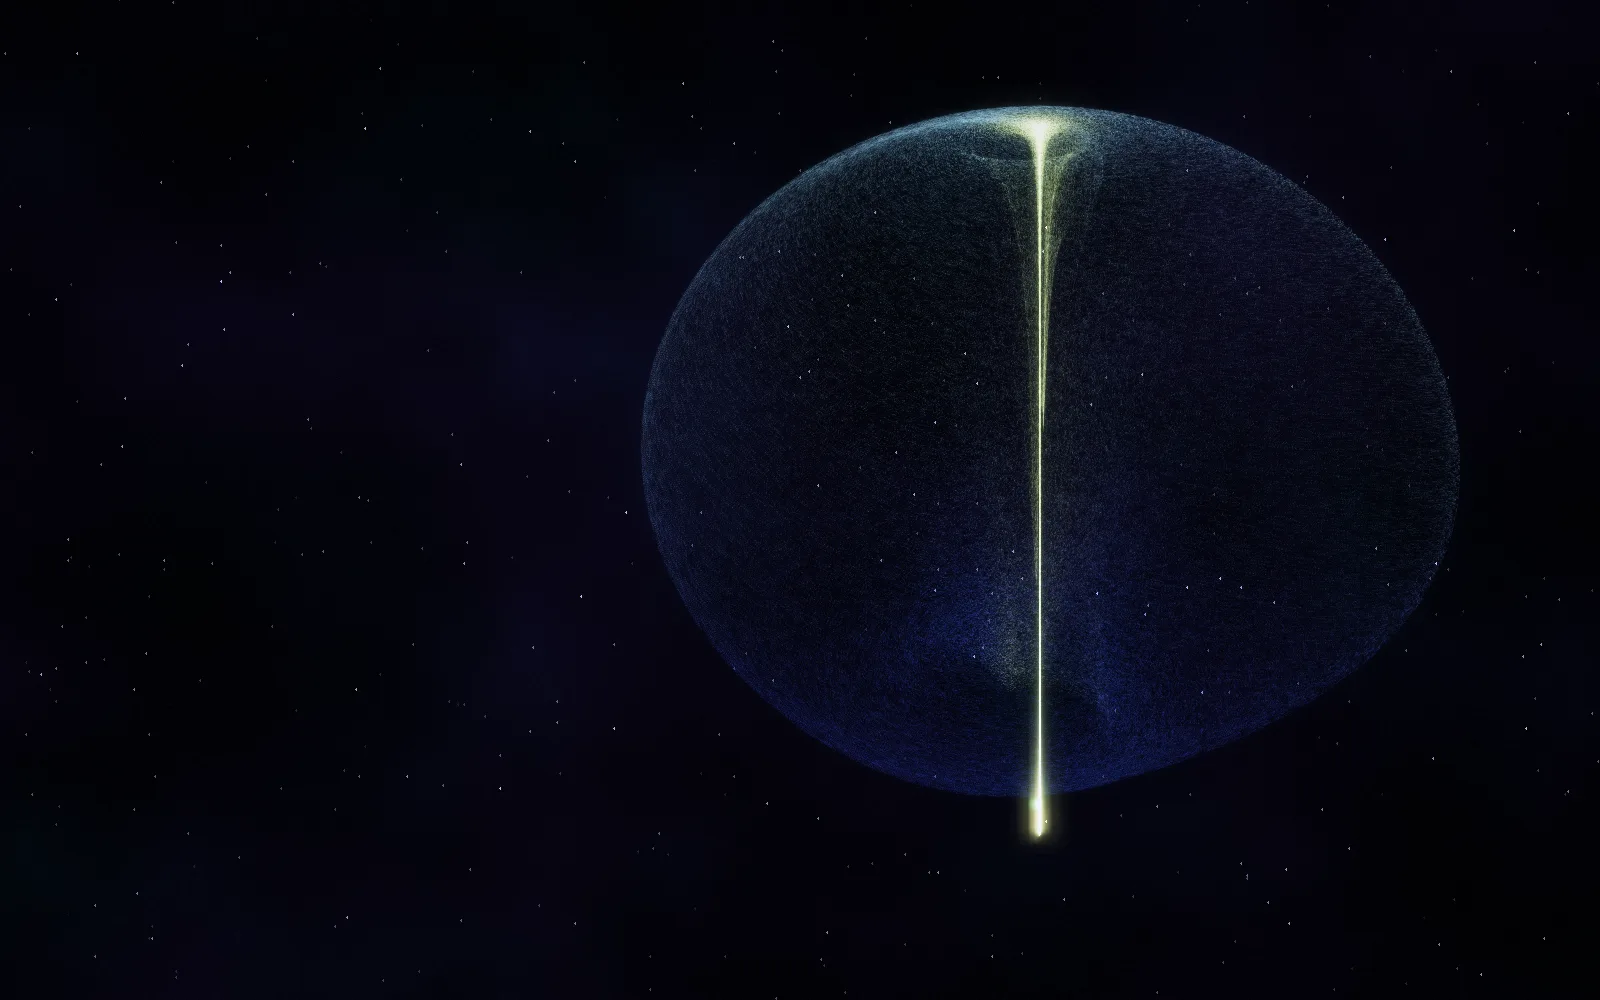
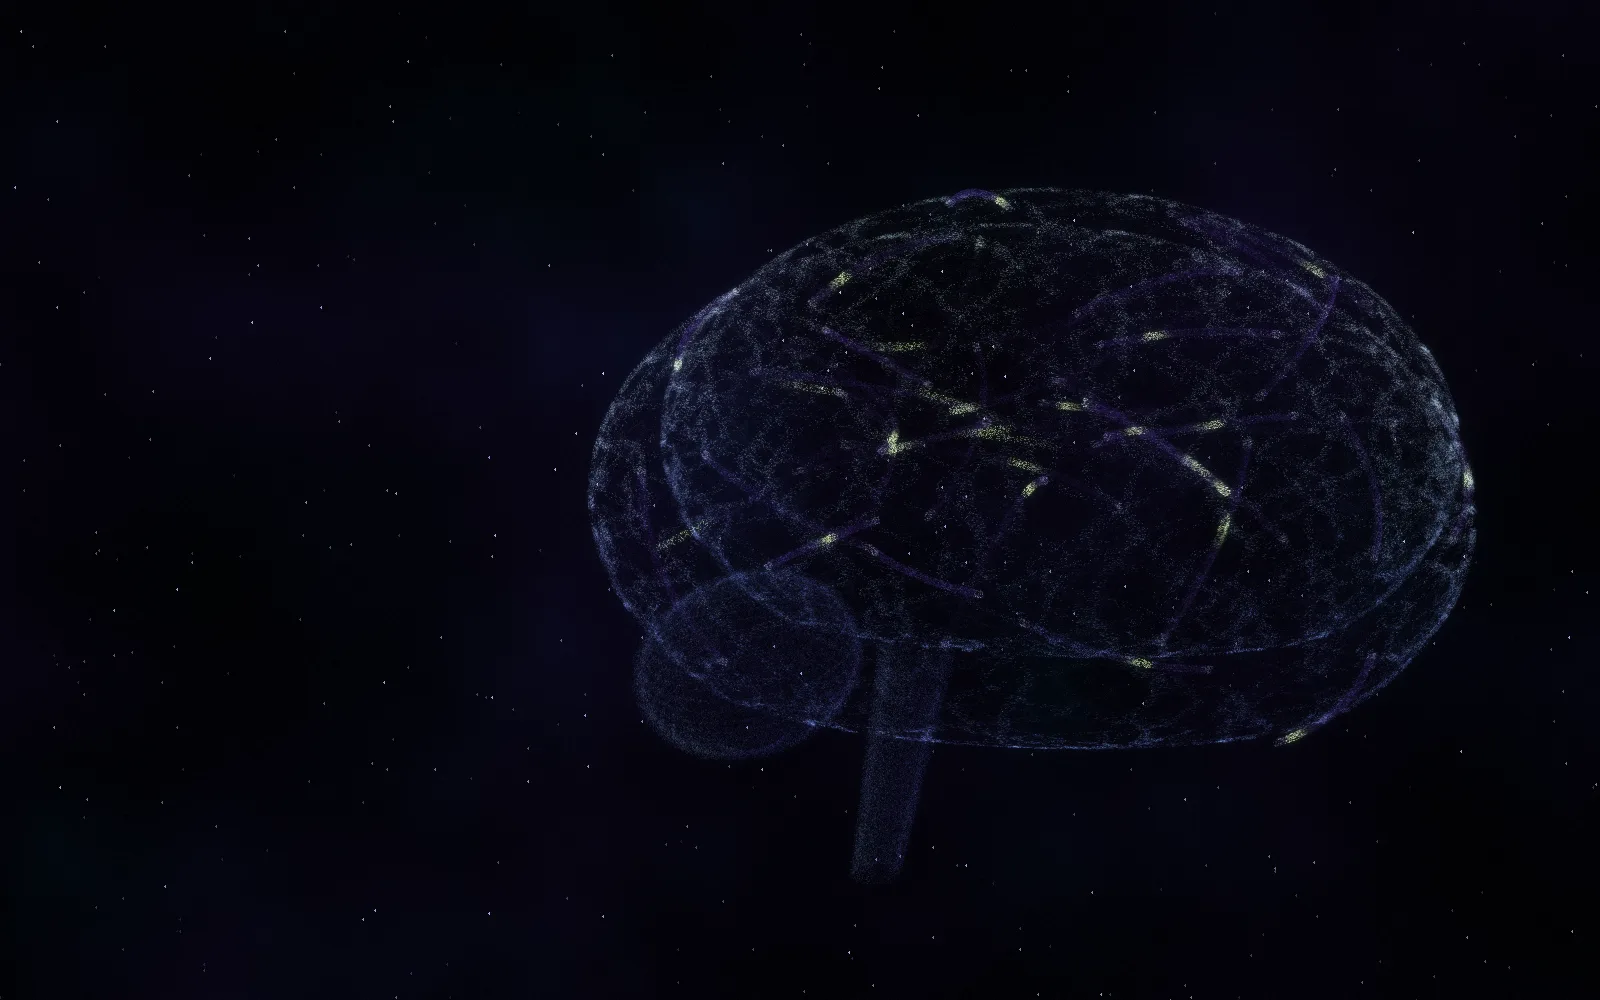
feat: a brain with firing neurons replaces the attractor for FIG. 04 and About
The cortex sits on meandering fold lines over two hemispheres, with a
cerebellum and stem; neuron fibres run inside and along the surface and
carry signals. The attractor and its warm-up snapshot are removed, so
the warm-up settles only the current form.

Changed region(s): [[0.3438, 0.093, 0.9375, 0.868], [0.75, 0.465, 0.7812, 0.558], [0.4375, 0.744, 0.4688, 0.775]]

diff --git a/assets/js/engine/shaders.js b/assets/js/engine/shaders.js
@@ -4,8 +4,7 @@ export const HDR = '#version 300 es\nprecision highp float;\nprecision highp int
 export const VSQ = HDR + 'const vec2 Q[3]=vec2[3](vec2(-1.,-1.),vec2(3.,-1.),vec2(-1.,3.));void main(){gl_Position=vec4(Q[gl_VertexID],0.,1.);}';
 
 const HASH = 'float hash(vec2 p){vec3 p3=fract(vec3(p.xyx)*.1031);p3+=dot(p3,p3.yzx+33.33);return fract((p3.x+p3.y)*p3.z);}\n';
-const AIZ = 'vec3 aiz(vec3 p){const float a=.95,b=.7,c=.6,d=3.5,e=.25,f=.1;float x=p.x,y=p.y,z=p.z;return vec3((z-b)*x-d*y,d*x+(z-b)*y,c+a*z-z*z*z/3.-(x*x+y*y)*(1.+e*z)+f*z*x*x*x);}\n';
-const COMMON = HASH + AIZ + `
+const COMMON = HASH + `
 vec3 rdir(float a,float b){float z=a*2.-1.;float r=sqrt(max(0.,1.-z*z));float ph=b*6.2831853;return vec3(r*cos(ph),z,r*sin(ph));}
 vec4 H4(ivec2 id){vec2 q=vec2(id);return vec4(hash(q),hash(q+17.3),hash(q+41.1),hash(q+83.7));}
 vec3 abc(vec3 p){return vec3(sin(p.z)+.43*cos(p.y),.7*sin(p.x)+cos(p.z),.43*sin(p.y)+.7*cos(p.x));}
@@ -13,6 +12,14 @@ const float TL=.42;
 vec3 tiltW(vec3 v){float c=cos(TL),s=sin(TL);return vec3(v.x,v.y*c-v.z*s,v.y*s+v.z*c);}
 vec3 tiltL(vec3 v){float c=cos(TL),s=sin(TL);return vec3(v.x,v.y*c+v.z*s,-v.y*s+v.z*c);}
 float ringA(vec4 h){return 1.35+h.y*.6;}
+// brain: hemisphere centres and radii, and the neuron fibres (quadratic curves between points on the cortex)
+const vec3 BR=vec3(.5,.64,1.);
+vec3 bctr(float sd){return vec3(sd*.28,.06,0.);}
+vec3 bdir(float k,float j){return rdir(.25+.7*hash(vec2(k,j*7.1+1.3)),hash(vec2(k*1.7,j+4.2)));}
+vec3 fibre(float k,float s){float sd=hash(vec2(k,9.))<.5?-1.:1.;vec3 d1=bdir(k,0.);vec3 a,b,c;
+  if(hash(vec2(k,5.))<.5){vec3 d2=normalize(d1+(rdir(hash(vec2(k,2.2)),hash(vec2(k,3.7)))*.7));a=bctr(sd)+d1*BR*.99;b=bctr(sd)+d2*BR*.99;c=bctr(sd)+normalize(d1+d2)*BR*1.05;}
+  else{a=bctr(sd)+d1*BR*.9;b=bctr(-sd)+bdir(k,1.)*BR*.9;c=(a+b)*.2+vec3(0.,.12,0.);}
+  float u=1.-s;return u*u*a+2.*u*s*c+s*s*b;}
 `;
 const NOISE = `vec3 mod289(vec3 x){return x-floor(x*(1./289.))*289.;}
 vec4 mod289(vec4 x){return x-floor(x*(1./289.))*289.;}
@@ -34,12 +41,19 @@ float sheetY(vec2 q,float t){return .22*sin(q.x*1.3+t*.2)*cos(q.y*1.1-t*.15)+.1*
 `;
 
 // Update: one fragment per particle, MRT out (position+birth, velocity+age).
-export const UPDATE_FS = HDR + `uniform sampler2D uP,uV,uHome;uniform float uT,uDt,uMix,uTurb,uReset,uSing,uKick;uniform int uF0,uF1;uniform vec3 uM;
+export const UPDATE_FS = HDR + `uniform sampler2D uP,uV;uniform float uT,uDt,uMix,uTurb,uReset,uSing,uKick;uniform int uF0,uF1;uniform vec3 uM;
 layout(location=0) out vec4 oP;layout(location=1) out vec4 oV;
 ${COMMON}${NOISE}
 vec3 field(int f,vec3 p,vec3 v,vec4 h,ivec2 id){
-  if(f==0){const float S=.62;vec3 a=vec3(p.x,p.z,p.y)/S+vec3(0.,0.,.45);vec3 d=aiz(a);vec3 fl=vec3(d.x,d.z,d.y)*S*.35;
-    vec3 hm=texelFetch(uHome,id,0).xyz;float settle=uF1==0?smoothstep(.85,1.,uMix):1.;return mix((hm-p)*8.,fl,settle);}
+  // 0: brain (folded cortex on meandering rings, cerebellum, stem, neuron fibres)
+  if(f==0){vec3 tg;float sd=h.w<.5?-1.:1.;
+    if(h.x<.62){vec3 d=rdir(h.y,h.z);
+      if(h.w*2.-floor(h.w*2.)<.72){float j=floor(h.y*26.);float th=h.z*6.2831853;float ph=mix(.2,2.94,(j+.5)/26.)+.14*sin(th*8.+j*2.1)+.06*sin(th*15.+j*.7);d=vec3(sin(ph)*cos(th),sin(ph)*sin(th),cos(ph));d+=rdir(fract(h.w*31.),fract(h.w*17.))*.012;d=normalize(d);}
+      tg=bctr(sd)+d*BR*(1.-.012*fract(h.w*13.));tg.x=sd*max(sd*tg.x,.03);if(tg.y<-.36)tg.y=-.36+(tg.y+.36)*.35;}
+    else if(h.x<.86){float k=floor(h.y*40.);tg=fibre(k,h.z)+rdir(h.w,fract(h.y*57.))*.009;}
+    else if(h.x<.95){vec3 d=rdir(h.y,h.z);tg=vec3(0.,-.44,-.72)+d*vec3(.42,.21,.28)*(1.-.07*abs(sin(d.y*26.))-.04*fract(h.w*7.));}
+    else{float sv=h.y;float an=h.z*6.2831853;float r=.1*(1.-.35*sv)*(1.-.3*fract(h.w*5.));tg=mix(vec3(0.,-.38,-.3),vec3(0.,-1.,-.42),sv)+vec3(cos(an)*r,0.,sin(an)*r);}
+    tg*=1.+.01*sin(uT*1.3);return (tg-p)*7.;}
   if(f==1){vec2 q=p.xz*.75;vec2 c=curl(q,uT*.04)+.45*curl(q*2.6+9.,uT*.07)+vec2(.55,0.);vec3 fl=vec3(c.x*.2,(sheetY(p.xz,uT)-p.y)*3.,c.y*.2);
     vec3 hm=vec3((h.y*2.-1.)*2.4,0.,(h.z*2.-1.)*1.8);hm.y=sheetY(hm.xz,uT);float settle=uF1==1?smoothstep(.85,1.,uMix):1.;return mix((hm-p)*6.,fl,settle);}
   if(f==2){float r=max(length(p.xz),.05);vec3 tn=vec3(-p.z,0.,p.x)/r;vec3 rn=vec3(p.x,0.,p.z)/r;float vk=.95/sqrt(max(r,.25));float inflow=.03+.045/r;float hy=(h.z-.5)*.05*r;return tn*vk-rn*inflow+vec3(0.,(hy-p.y)*4.,0.);}
@@ -96,7 +110,10 @@ export const RENDER_VS = HDR + `uniform sampler2D uP,uV;uniform int uW,uF0,uF1,u
 ${COMMON}
 vec3 colF(int f,vec3 p,vec3 v,vec4 h){
   float sp=length(v);
-  if(f==0){float rr=length(p.xz);vec3 c=mix(vec3(.18,.3,1.),vec3(.5,.82,1.),smoothstep(-.4,.45,p.y));return mix(c,vec3(.82,.96,.35),smoothstep(.2,.04,rr)*.85)*1.4;}
+  if(f==0){
+    if(h.x<.62){float sd=p.x<0.?-1.:1.;vec3 d=normalize((p-bctr(sd))/BR);bool line=h.w*2.-floor(h.w*2.)<.72;float front=smoothstep(.35,-.45,dot(d,uFwd));vec3 c=mix(vec3(.42,.56,1.),vec3(.72,.9,1.),smoothstep(-.35,.55,p.y))*(line?1.:.22)*mix(.22,1.,front);float spark=step(.985,fract(uT*.6+h.w*37.))*step(fract(h.y*91.),.4);return c+vec3(.8,1.,.4)*spark*2.*front;}
+    if(h.x<.86){float k=floor(h.y*40.),ph=hash(vec2(k,3.3));bool surf=hash(vec2(k,5.))<.5;float on=step(fract(uT*.22+ph),.55);float w=fract(h.z-uT*.9-ph*7.);float pulse=on*smoothstep(.86,1.,w);float node=smoothstep(.05,0.,min(h.z,1.-h.z));return vec3(.5,.3,1.)*(surf?.34:.22)+vec3(.78,1.,.45)*pulse*(surf?3.4:2.8)+vec3(.8,.9,1.)*node*1.1;}
+    return mix(vec3(.3,.3,.85),vec3(.5,.7,1.),h.z)*.45;}
   if(f==1){float an=atan(v.z,v.x);vec3 c=mix(vec3(.10,.22,1.),vec3(.45,.82,1.),smoothstep(.1,.5,sp));c=mix(c,vec3(.78,.94,.19),smoothstep(.55,1.,sin(an*2.+p.z*3.)*.5+.5)*.45);float edge=smoothstep(2.6,1.7,abs(p.x))*smoothstep(2.,1.2,abs(p.z));return mix(c,vec3(.55,.3,1.),smoothstep(.3,-.2,p.y)*.35)*.9*edge;}
   if(f==2){float r=length(p.xz);vec3 c=mix(vec3(1.,.9,.72),vec3(1.,.5,.16),smoothstep(.35,1.,r));c=mix(c,vec3(.55,.12,.04),smoothstep(1.1,2.4,r));float be=clamp(dot(v,-uFwd)*.35,-.8,.8);c*=pow(1.+be,3.);c=mix(c,c*vec3(.8,.9,1.25),max(be,0.));return c*.55;}
   if(f==3){if(h.x<.08)return vec3(2.);if(h.x<.2)return vec3(.6,.88,1.)*1.1;if(h.x<.9){float d=length(p);return mix(vec3(.75,.7,1.),vec3(.4,.45,1.),smoothstep(.1,1.2,d))*1.35;}return vec3(.78,.94,.19)*.55;}
@@ -126,7 +143,6 @@ void main(){ivec2 id=ivec2(gl_VertexID%uW,gl_VertexID/uW);vec4 P=texelFetch(uP,i
 
 export const POINT_FS = HDR + 'in vec3 vC;out vec4 o;void main(){o=vec4(vC,1.);}';
 export const FADE_FS = HDR + 'uniform float uF;out vec4 o;void main(){o=vec4(uF);}';
-export const COPY_FS = HDR + 'uniform sampler2D uS;out vec4 o;void main(){o=texelFetch(uS,ivec2(gl_FragCoord.xy),0);}';
 
 // Display: bloom from the mip chain, tone map, nebula dust, stars, vignette, grain, flash pulse.
 export const DISPLAY_FS = HDR + `uniform sampler2D uAcc;uniform vec2 uRes,uSky;uniform float uExp,uT,uBloom,uFlash,uSkyA,uDim;out vec4 o;${HASH}

diff --git a/assets/js/engine/stage.js b/assets/js/engine/stage.js
@@ -1,6 +1,6 @@
 // The stage: one WebGL2 particle system that changes form. Ported from the approved prototype.
 import { createContext, program, programsDone, checkLinked, texture, framebuffer, accumulation, freeTarget } from './gl.js';
-import { VSQ, UPDATE_FS, RENDER_VS, POINT_FS, FADE_FS, COPY_FS, DISPLAY_FS } from './shaders.js';
+import { VSQ, UPDATE_FS, RENDER_VS, POINT_FS, FADE_FS, DISPLAY_FS } from './shaders.js';
 import { FORM, CAMERA, TRAIL_FADE } from './forms.js';
 import { TIERS, FrameMeter } from './quality.js';
 import { smooth, lerpAngle } from '../lib/math.js';
@@ -27,7 +27,7 @@ export class Stage {
     this.gl = gl; this.canvas = canvas; this.onFlash = onFlash;
     this.progs = {
       upd: program(gl, VSQ, UPDATE_FS), ren: program(gl, RENDER_VS, POINT_FS), fade: program(gl, VSQ, FADE_FS),
-      copy: program(gl, VSQ, COPY_FS), disp: program(gl, VSQ, DISPLAY_FS)
+      disp: program(gl, VSQ, DISPLAY_FS)
     };
     this.ext = gl.getExtension('KHR_parallel_shader_compile');
     this.phase = 'compile'; // compile → prime → warm (see _prepare)
@@ -124,8 +124,8 @@ export class Stage {
   _allocState(cols, rows) {
     const gl = this.gl, n = cols * rows;
     if (this.SP) {
-      [...this.SP, ...this.SV, this.HOME].forEach(t => gl.deleteTexture(t));
-      [...this.SF, this.HOMEF].forEach(f => gl.deleteFramebuffer(f));
+      [...this.SP, ...this.SV].forEach(t => gl.deleteTexture(t));
+      this.SF.forEach(f => gl.deleteFramebuffer(f));
     }
     const P = new Float32Array(n * 4), V = new Float32Array(n * 4);
     for (let i = 0; i < n; i++) {
@@ -136,7 +136,6 @@ export class Stage {
     const tex = data => texture(gl, cols, rows, { internal: gl.RGBA32F, format: gl.RGBA, type: gl.FLOAT, data });
     this.SP = [tex(P), tex(P)]; this.SV = [tex(V), tex(V)];
     this.SF = [framebuffer(gl, [this.SP[0], this.SV[0]]), framebuffer(gl, [this.SP[1], this.SV[1]])];
-    this.HOME = tex(P); this.HOMEF = framebuffer(gl, [this.HOME]);
     this.si = 0; this.cols = cols; this.rows = rows;
   }
 
@@ -194,10 +193,6 @@ export class Stage {
   _prime() {
     const gl = this.gl, P = this.progs, s = this.s;
     this._step(1 / 60, s.t, 1, 0, pulsarAxis(s.t));
-    gl.bindFramebuffer(gl.FRAMEBUFFER, this.HOMEF); gl.viewport(0, 0, this.cols, this.rows); gl.disable(gl.BLEND);
-    gl.useProgram(P.copy.p);
-    gl.activeTexture(gl.TEXTURE0); gl.bindTexture(gl.TEXTURE_2D, this.SP[this.si]); gl.uniform1i(P.copy.u.uS, 0);
-    gl.drawArrays(gl.TRIANGLES, 0, 3);
     gl.bindFramebuffer(gl.FRAMEBUFFER, this.acc.f); gl.viewport(0, 0, this.W, this.H);
     gl.enable(gl.BLEND); gl.blendFunc(gl.ZERO, gl.SRC_COLOR);
     gl.useProgram(P.fade.p); gl.uniform1f(P.fade.u.uF, 0);
@@ -217,16 +212,9 @@ export class Stage {
     freeTarget(gl, { t, f });
   }
 
-  // Settle the attractor and keep it as the "home" snapshot, then settle the current form.
+  // Settle the current form before the first frame.
   _warm() {
-    const s = this.s, gl = this.gl, f0 = s.cur;
-    s.cur = s.prev = FORM.ATTRACTOR;
-    this._settle(420, s.t - 240 / 60);
-    gl.bindFramebuffer(gl.FRAMEBUFFER, this.HOMEF); gl.viewport(0, 0, this.cols, this.rows); gl.disable(gl.BLEND);
-    gl.useProgram(this.progs.copy.p);
-    gl.activeTexture(gl.TEXTURE0); gl.bindTexture(gl.TEXTURE_2D, this.SP[this.si]); gl.uniform1i(this.progs.copy.u.uS, 0);
-    gl.drawArrays(gl.TRIANGLES, 0, 3);
-    s.cur = s.prev = f0;
+    const gl = this.gl;
     this._settle(240);
     // The passes above are only queued. Wait for the GPU to run them, so `ready` means the next frame is not stalled.
     gl.bindFramebuffer(gl.FRAMEBUFFER, this.SF[this.si]);
@@ -240,7 +228,6 @@ export class Stage {
     gl.useProgram(U.p);
     gl.activeTexture(gl.TEXTURE0); gl.bindTexture(gl.TEXTURE_2D, this.SP[this.si]); gl.uniform1i(U.u.uP, 0);
     gl.activeTexture(gl.TEXTURE1); gl.bindTexture(gl.TEXTURE_2D, this.SV[this.si]); gl.uniform1i(U.u.uV, 1);
-    gl.activeTexture(gl.TEXTURE2); gl.bindTexture(gl.TEXTURE_2D, this.HOME); gl.uniform1i(U.u.uHome, 2);
     gl.uniform1f(U.u.uT, t); gl.uniform1f(U.u.uDt, dt); gl.uniform1f(U.u.uMix, m); gl.uniform1f(U.u.uTurb, turb);
     gl.uniform1i(U.u.uF0, s.prev); gl.uniform1i(U.u.uF1, s.cur); gl.uniform3fv(U.u.uM, mag);
     gl.uniform1f(U.u.uReset, s.reset ? 1 : 0); gl.uniform1f(U.u.uSing, s.sing); gl.uniform1f(U.u.uKick, s.kick);

diff --git a/assets/js/engine/forms.js b/assets/js/engine/forms.js
@@ -1,19 +1,19 @@
 // The stage's forms. Ids match the shader's `field()` and `colF()` branches.
-export const FORM = { ATTRACTOR: 0, NEBULA: 1, BLACK_HOLE: 2, PULSAR: 3, GALAXY: 4, PLANET: 5, SINGULARITY: 6 };
-export const FORM_NAMES = ['Attractor', 'Nebula', 'Black hole', 'Pulsar', 'Galaxy', 'Storm planet', 'Singularity'];
+export const FORM = { BRAIN: 0, NEBULA: 1, BLACK_HOLE: 2, PULSAR: 3, GALAXY: 4, PLANET: 5, SINGULARITY: 6 };
+export const FORM_NAMES = ['Brain', 'Nebula', 'Black hole', 'Pulsar', 'Galaxy', 'Storm planet', 'Singularity'];
 // ys = yaw speed (rad/s), p = pitch (rad), d = camera distance
 export const CAMERA = [
-  { ys: 0.13, p: 0.42, d: 5 }, { ys: 0.035, p: 0.55, d: 5.2 }, { ys: 0.03, p: 0.17, d: 5.1 },
+  { ys: 0.1, p: 0.28, d: 5.2 }, { ys: 0.035, p: 0.55, d: 5.2 }, { ys: 0.03, p: 0.17, d: 5.1 },
   { ys: 0.06, p: 0.36, d: 5.3 }, { ys: 0.05, p: 0.85, d: 5.4 }, { ys: 0, p: 0.28, d: 5.3 }, { ys: 0, p: 0.3, d: 5 }
 ];
 // fraction of the previous frame kept in the trail buffer
-export const TRAIL_FADE = [0.6, 0.955, 0.78, 0.84, 0.8, 0.8, 0.7];
+export const TRAIL_FADE = [0.72, 0.955, 0.78, 0.84, 0.8, 0.8, 0.7];
 // comet cursor tail colour per form
-export const TAIL_RGB = ['150,215,255', '124,196,255', '255,170,90', '175,160,255', '255,228,190', '140,195,255', '220,235,255'];
+export const TAIL_RGB = ['160,205,255', '124,196,255', '255,170,90', '175,160,255', '255,228,190', '140,195,255', '220,235,255'];
 // Home: hero, Hunt, Voice Recorder, Lightning Background, About, Contact
-export const HOME_MAPPING = [FORM.GALAXY, FORM.BLACK_HOLE, FORM.PULSAR, FORM.PLANET, FORM.ATTRACTOR, FORM.NEBULA];
+export const HOME_MAPPING = [FORM.GALAXY, FORM.BLACK_HOLE, FORM.PULSAR, FORM.PLANET, FORM.BRAIN, FORM.NEBULA];
 
-const BY_NAME = { attractor: 0, nebula: 1, 'black-hole': 2, pulsar: 3, galaxy: 4, 'storm-planet': 5, singularity: 6 };
+const BY_NAME = { brain: 0, nebula: 1, 'black-hole': 2, pulsar: 3, galaxy: 4, 'storm-planet': 5, singularity: 6 };
 export function formFromName(name) {
   if (!(name in BY_NAME)) throw new Error(`unknown stage form "${name}"`);
   return BY_NAME[name];

diff --git a/tests/unit/forms.test.js b/tests/unit/forms.test.js
@@ -7,10 +7,17 @@ test('seven forms with ids 0..6', () => {
   for (const arr of [FORM_NAMES, CAMERA, TRAIL_FADE, TAIL_RGB]) assert.equal(arr.length, 7);
 });
 test('home mapping follows the spec', () => {
-  assert.deepEqual(HOME_MAPPING, [FORM.GALAXY, FORM.BLACK_HOLE, FORM.PULSAR, FORM.PLANET, FORM.ATTRACTOR, FORM.NEBULA]);
+  assert.deepEqual(HOME_MAPPING, [FORM.GALAXY, FORM.BLACK_HOLE, FORM.PULSAR, FORM.PLANET, FORM.BRAIN, FORM.NEBULA]);
 });
 test('formFromName', () => {
   assert.equal(formFromName('pulsar'), FORM.PULSAR);
   assert.equal(formFromName('storm-planet'), FORM.PLANET);
   assert.throws(() => formFromName('comet'));
+});
+test('the brain takes the place of the attractor (FIG. 04 and the About page)', () => {
+  assert.equal(FORM.BRAIN, 0);
+  assert.equal(FORM.ATTRACTOR, undefined);
+  assert.equal(FORM_NAMES[FORM.BRAIN], 'Brain');
+  assert.equal(formFromName('brain'), FORM.BRAIN);
+  assert.throws(() => formFromName('attractor'));
 });

diff --git a/about/index.html b/about/index.html
@@ -24,7 +24,7 @@
 <link rel="stylesheet" href="/assets/css/site.css">
 <script type="module" src="/assets/js/page.js"></script>
 </head>
-<body data-page="about" data-form="attractor">
+<body data-page="about" data-form="brain">
 <a class="skip-link" href="#from">Skip to the page</a>
 <div class="stage" aria-hidden="true"><canvas></canvas></div>
 <main>
